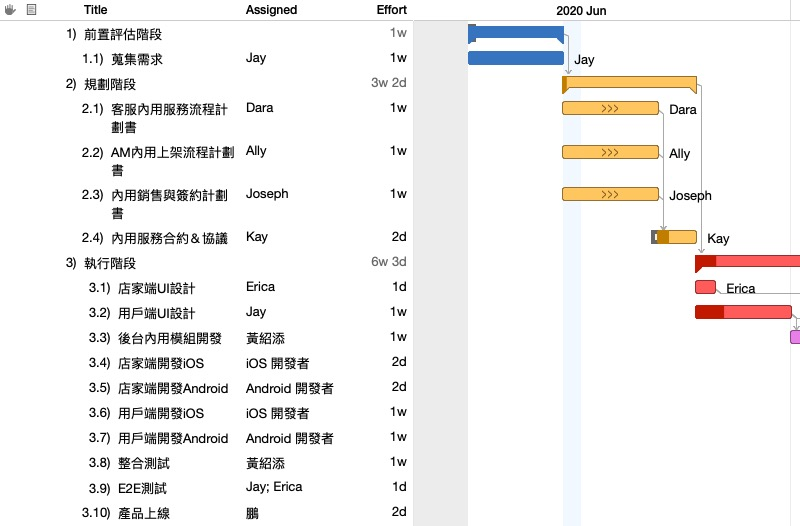
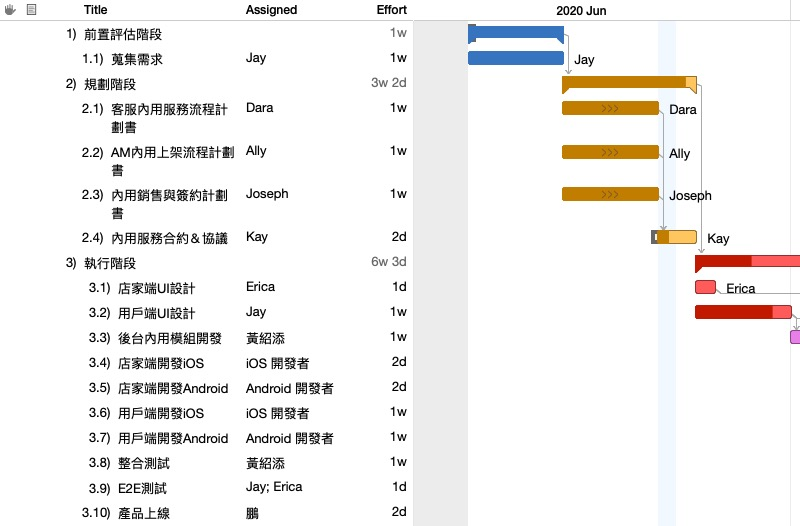
update project 20200622

diff --git a/resource.html b/resource.html
@@ -74,7 +74,7 @@
                 <td>2020/6/8, 10:00 AM</td>
                 <td>2020/7/24, 3:00 PM</td>
                 <td>2w 4h</td>
-                <td>59%</td>
+                <td>82%</td>
                 <td>$31,500.00</td>
             </tr>
             <tr>
@@ -90,7 +90,7 @@
                 <td>2020/6/24, 10:00 AM</td>
                 <td>2020/6/30, 7:00 PM</td>
                 <td>1w</td>
-                <td>30%</td>
+                <td>80%</td>
                 <td>$15,000.00</td>
             </tr>
             <tr>
@@ -194,7 +194,7 @@
                 <td>2020/6/15, 10:00 AM</td>
                 <td>2020/6/19, 7:00 PM</td>
                 <td>1w</td>
-                <td>0%</td>
+                <td>100%</td>
                 <td>$10,000.00</td>
             </tr>
             <tr>
@@ -202,7 +202,7 @@
                 <td>2020/6/15, 10:00 AM</td>
                 <td>2020/6/19, 7:00 PM</td>
                 <td>1w</td>
-                <td>0%</td>
+                <td>100%</td>
                 <td>$10,000.00</td>
             </tr>
             <tr class="resource Staff">
@@ -210,7 +210,7 @@
                 <td>2020/6/15, 10:00 AM</td>
                 <td>2020/6/19, 7:00 PM</td>
                 <td>1w</td>
-                <td>0%</td>
+                <td>100%</td>
                 <td>$8,400.00</td>
             </tr>
             <tr>
@@ -218,7 +218,7 @@
                 <td>2020/6/15, 10:00 AM</td>
                 <td>2020/6/19, 7:00 PM</td>
                 <td>1w</td>
-                <td>0%</td>
+                <td>100%</td>
                 <td>$8,400.00</td>
             </tr>
             <tr class="resource Staff">
@@ -226,7 +226,7 @@
                 <td>2020/6/15, 10:00 AM</td>
                 <td>2020/6/19, 7:00 PM</td>
                 <td>1w</td>
-                <td>0%</td>
+                <td>100%</td>
                 <td>$11,600.00</td>
             </tr>
             <tr>
@@ -234,7 +234,7 @@
                 <td>2020/6/15, 10:00 AM</td>
                 <td>2020/6/19, 7:00 PM</td>
                 <td>1w</td>
-                <td>0%</td>
+                <td>100%</td>
                 <td>$11,600.00</td>
             </tr>
             <tr class="resource Group">
@@ -346,6 +346,6 @@
         </div>
     </div><!-- end contentwrap -->
 
-    <p class="exported">Exported 2020/6/15</p>
+    <p class="exported">Exported 2020/6/22</p>
 </body>
 </html>

diff --git a/eva.html b/eva.html
@@ -96,9 +96,9 @@
 	</tr>
 	<tr>
 		<td style="padding-left: 18px;" class="wrap">2) 規劃階段</td>
-		<td>$1,008.00</td>
-		<td>$1,008.00</td>
-		<td>$1,008.00</td>
+		<td>$31,008.00</td>
+		<td>$31,008.00</td>
+		<td>$31,008.00</td>
 		<td></td>
 		<td></td>
 		<td>$33,360.00</td>
@@ -112,50 +112,50 @@
 	</tr>
 	<tr>
 		<td style="padding-left: 28px;" class="wrap">2.1) 客服內用服務流程計劃書</td>
-		<td></td>
-		<td></td>
-		<td></td>
+		<td>$8,400.00</td>
+		<td>$8,400.00</td>
+		<td>$8,400.00</td>
 		<td></td>
 		<td></td>
 		<td>$8,400.00</td>
 		<td>$8,400.00</td>
 		<td></td>
-		<td></td>
-		<td></td>
-		<td></td>
-		<td></td>
+		<td>1</td>
+		<td>1</td>
+		<td>0%</td>
+		<td>0%</td>
 		<td>1</td>
 	</tr>
 	<tr>
 		<td style="padding-left: 28px;" class="wrap">2.2) AM內用上架流程計劃書</td>
-		<td></td>
-		<td></td>
-		<td></td>
+		<td>$10,000.00</td>
+		<td>$10,000.00</td>
+		<td>$10,000.00</td>
 		<td></td>
 		<td></td>
 		<td>$10,000.00</td>
 		<td>$10,000.00</td>
 		<td></td>
-		<td></td>
-		<td></td>
-		<td></td>
-		<td></td>
+		<td>1</td>
+		<td>1</td>
+		<td>0%</td>
+		<td>0%</td>
 		<td>1</td>
 	</tr>
 	<tr>
 		<td style="padding-left: 28px;" class="wrap">2.3) 內用銷售與簽約計劃書</td>
-		<td></td>
-		<td></td>
-		<td></td>
+		<td>$11,600.00</td>
+		<td>$11,600.00</td>
+		<td>$11,600.00</td>
 		<td></td>
 		<td></td>
 		<td>$11,600.00</td>
 		<td>$11,600.00</td>
 		<td></td>
-		<td></td>
-		<td></td>
-		<td></td>
-		<td></td>
+		<td>1</td>
+		<td>1</td>
+		<td>0%</td>
+		<td>0%</td>
 		<td>1</td>
 	</tr>
 	<tr>
@@ -176,9 +176,9 @@
 	</tr>
 	<tr>
 		<td style="padding-left: 18px;" class="wrap">3) 執行階段</td>
-		<td>$4,500.00</td>
-		<td>$4,500.00</td>
-		<td>$4,500.00</td>
+		<td>$12,000.00</td>
+		<td>$12,000.00</td>
+		<td>$12,000.00</td>
 		<td></td>
 		<td></td>
 		<td>$185,420.00</td>
@@ -208,9 +208,9 @@
 	</tr>
 	<tr>
 		<td style="padding-left: 28px;" class="wrap">3.2) 用戶端UI設計</td>
-		<td>$4,500.00</td>
-		<td>$4,500.00</td>
-		<td>$4,500.00</td>
+		<td>$12,000.00</td>
+		<td>$12,000.00</td>
+		<td>$12,000.00</td>
 		<td></td>
 		<td></td>
 		<td>$15,000.00</td>
@@ -354,6 +354,6 @@
         </div><!-- end table wrap -->
 	</div>
     </div><!-- end contentwrap -->
-	 <p class="exported">Exported 2020/6/15</p>
+	 <p class="exported">Exported 2020/6/22</p>
 </body>
 </html>

diff --git a/index.html b/index.html
@@ -32,8 +32,8 @@
 			<p class="number">$233,780.00</p>
 		</div>
 		<div id="completed" class="box">
-			<h2><span class="number">13%</span> Completed</h2>
-			<div id="bar"><div id="fill" style="width:13%;"></div></div>
+			<h2><span class="number">45%</span> Completed</h2>
+			<div id="bar"><div id="fill" style="width:45%;"></div></div>
 			<p><span class="label">Start:</span> 2020/6/8, 8:00 AM</p>
 			<p><span class="label">End Date:</span> 2020/7/28, 3:00 PM</p>
 			<p><span class="label">Variance:</span> 0h</p>
@@ -75,7 +75,7 @@
                 <td>2020/6/8, 10:00 AM</td>
                 <td>2020/7/24, 3:00 PM</td>
                 <td>2w 4h</td>
-                <td>59%</td>
+                <td>82%</td>
                 <td>$31,500.00</td>
             </tr>
             <tr class="resource Staff">
@@ -147,7 +147,7 @@
                 <td>2020/6/15, 10:00 AM</td>
                 <td>2020/6/19, 7:00 PM</td>
                 <td>1w</td>
-                <td>0%</td>
+                <td>100%</td>
                 <td>$10,000.00</td>
             </tr>
             <tr class="resource Staff">
@@ -155,7 +155,7 @@
                 <td>2020/6/15, 10:00 AM</td>
                 <td>2020/6/19, 7:00 PM</td>
                 <td>1w</td>
-                <td>0%</td>
+                <td>100%</td>
                 <td>$8,400.00</td>
             </tr>
             <tr class="resource Staff">
@@ -163,7 +163,7 @@
                 <td>2020/6/15, 10:00 AM</td>
                 <td>2020/6/19, 7:00 PM</td>
                 <td>1w</td>
-                <td>0%</td>
+                <td>100%</td>
                 <td>$11,600.00</td>
             </tr>
             <tr class="resource Group">
@@ -239,9 +239,9 @@
 	</tr>
 		<tr>
 
-		<td>$20,508.00</td>
-		<td>$20,508.00</td>
-		<td>$20,508.00</td>
+		<td>$58,008.00</td>
+		<td>$58,008.00</td>
+		<td>$58,008.00</td>
 		<td></td>
 		<td></td>
 		<td>$233,780.00</td>
@@ -260,6 +260,6 @@
        
             </div><!-- end content-->
 	</div><!-- end contentwrap -->
-	 <p class="exported">Exported 2020/6/15</p>
+	 <p class="exported">Exported 2020/6/22</p>
 
 </body>	

diff --git a/task.html b/task.html
@@ -98,7 +98,7 @@
                 <td>2020/6/15, 10:00 AM</td>
                 <td>2020/6/23, 7:00 PM</td>
                 <td>1w 2d</td>
-                <td>4%</td>
+                <td>92%</td>
                 <td>1</td>
                 <td class="total">$33,360.00</td>
                 <td></td>
@@ -114,7 +114,7 @@
                 <td>2020/6/15, 10:00 AM</td>
                 <td>2020/6/19, 7:00 PM</td>
                 <td>1w</td>
-                <td>0%</td>
+                <td>100%</td>
                 <td></td>
                 <td class="total">$8,400.00</td>
                 <td>Dara</td>
@@ -130,7 +130,7 @@
                 <td>2020/6/15, 10:00 AM</td>
                 <td>2020/6/19, 7:00 PM</td>
                 <td>1w</td>
-                <td>0%</td>
+                <td>100%</td>
                 <td></td>
                 <td class="total">$10,000.00</td>
                 <td>Ally</td>
@@ -146,7 +146,7 @@
                 <td>2020/6/15, 10:00 AM</td>
                 <td>2020/6/19, 7:00 PM</td>
                 <td>1w</td>
-                <td>0%</td>
+                <td>100%</td>
                 <td></td>
                 <td class="total">$11,600.00</td>
                 <td>Joseph</td>
@@ -178,7 +178,7 @@
                 <td>2020/6/24, 10:00 AM</td>
                 <td>2020/7/28, 3:00 PM</td>
                 <td>4w 4d 4h</td>
-                <td>5%</td>
+                <td>12%</td>
                 <td>2</td>
                 <td class="total">$185,420.00</td>
                 <td></td>
@@ -210,7 +210,7 @@
                 <td>2020/6/24, 10:00 AM</td>
                 <td>2020/6/30, 7:00 PM</td>
                 <td>1w</td>
-                <td>30%</td>
+                <td>80%</td>
                 <td></td>
                 <td class="total">$15,000.00</td>
                 <td>Jay</td>
@@ -353,6 +353,6 @@
         </div><!-- end table wrap -->
 	</div>
     </div><!-- end contentwrap -->
-	 <p class="exported">Exported 2020/6/15</p>
+	 <p class="exported">Exported 2020/6/22</p>
 </body>
 </html>

diff --git a/gantt.html b/gantt.html
@@ -30,13 +30,13 @@
 	<h1>202006-202008內用腹仇者計劃: Gantt Chart</h1>
 		<div class="tablewrap"><table border="0" cellspacing="0" cellpadding="0">
 <tr>
-	<td><img src="include/gantt0,0.jpg?nocacheTag=1865357829" border=0/></td>
-	<td><img src="include/gantt1,0.jpg?nocacheTag=-1609164245" border=0/></td>
+	<td><img src="include/gantt0,0.jpg?nocacheTag=1305881912" border=0/></td>
+	<td><img src="include/gantt1,0.jpg?nocacheTag=397427294" border=0/></td>
 </tr>
 </table>
 </div>
 		</div>
 	</div><!-- end contentwrap -->
-	 <p class="exported">Exported 2020/6/15</p>
+	 <p class="exported">Exported 2020/6/22</p>
 
 </body>	

diff --git a/montecarlo.html b/montecarlo.html
@@ -30,6 +30,6 @@
 	<h1>202006-202008內用腹仇者計劃: <span class="titlename">Monte Carlo Simulation</span></h1>
                </div>
 	</div><!-- end contentwrap -->
-	 <p class="exported">Exported 2020/6/15</p>
+	 <p class="exported">Exported 2020/6/22</p>
 
 </body>	

diff --git a/timeline.html b/timeline.html
@@ -45,6 +45,6 @@
 </div>
 		</div>
 	</div><!-- end contentwrap -->
-	 <p class="exported">Exported 2020/6/15</p>
+	 <p class="exported">Exported 2020/6/22</p>
 
 </body>	
